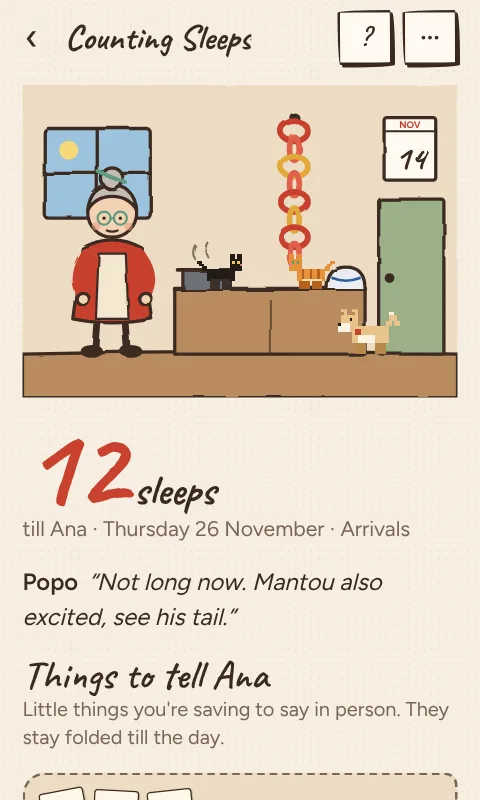
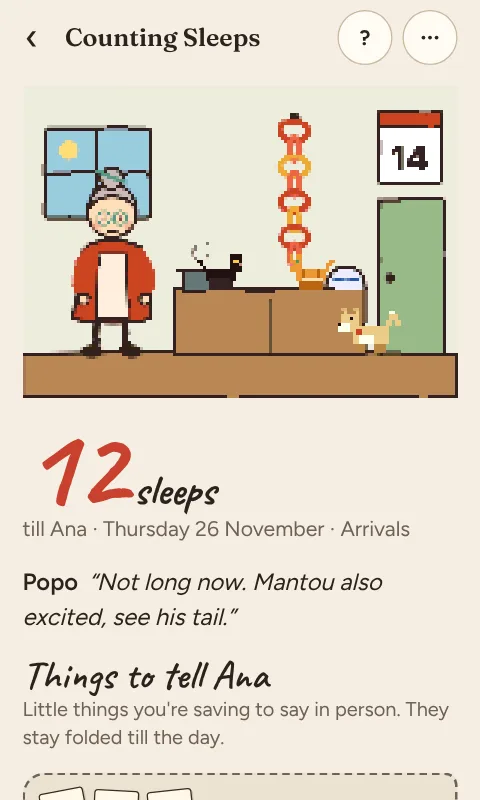
Counting Sleeps: Popo's kitchen wall in Nearby's pixel style (the shared #ahpPx filter); a bigger wall calendar that reads through it
Claude-Session: https://claude.ai/code/session_0148vArL2i4wagEXipodkMLS

Changed region(s): [[0.0312, 0.0, 0.9688, 0.5]]

diff --git a/portfolio/index.html b/portfolio/index.html
@@ -575,7 +575,7 @@ img{filter:none}
         <a class="nt" href="https://www.after-hours.work/casino/" target="_blank" rel="noopener noreferrer" style="--glow:#C8303A"><span class="nt-shot"><img src="/after-hours/casino.webp?v=2b914f6d" width="480" height="800" loading="lazy" alt=""></span><span class="nt-txt"><span class="nt-n">20</span><b><span data-i18n="acName">After Hours Casino</span></b><span class="nt-l" data-i18n="acL">A tiny casino for one table. Seeds for chips, never money.</span><span class="nt-go"><span data-i18n="acGo">Open After Hours Casino</span> ↗</span></span></a>
         <a class="nt" href="https://www.after-hours.work/still-today/" target="_blank" rel="noopener noreferrer" style="--glow:#F6B73C"><span class="nt-shot"><img src="/after-hours/still-today.webp?v=9349548d" width="480" height="800" loading="lazy" alt=""></span><span class="nt-txt"><span class="nt-n">21</span><b><span data-i18n="slName">Still Today</span></b><span class="nt-l" data-i18n="slL">Pretend today was your last day. Good news: it isn't.</span><span class="nt-go"><span data-i18n="slGo">Open Still Today</span> ↗</span></span></a>
         <a class="nt" href="https://www.after-hours.work/what-grows-between-us/" target="_blank" rel="noopener noreferrer" style="--glow:#6AB04A"><span class="nt-shot"><img src="/after-hours/what-grows-between-us.webp?v=2a8e1658" width="480" height="800" loading="lazy" alt=""></span><span class="nt-txt"><span class="nt-n">22</span><b><span data-i18n="gbName">What Grows Between Us</span></b><span class="nt-l" data-i18n="gbL">A seed with no label, grown by your friends from what you do together.</span><span class="nt-go"><span data-i18n="gbGo">Open What Grows Between Us</span> ↗</span></span></a>
-        <a class="nt" href="https://www.after-hours.work/counting-sleeps/" target="_blank" rel="noopener noreferrer" style="--glow:#C8412F"><span class="nt-shot"><img src="/after-hours/counting-sleeps.webp?v=80a3e958" width="480" height="800" loading="lazy" alt=""></span><span class="nt-txt"><span class="nt-n">23</span><b><span data-i18n="csName">Counting Sleeps</span></b><span class="nt-l" data-i18n="csL">The day you'll see them, counted on a paper chain.</span><span class="nt-go"><span data-i18n="csGo">Open Counting Sleeps</span> ↗</span></span></a>
+        <a class="nt" href="https://www.after-hours.work/counting-sleeps/" target="_blank" rel="noopener noreferrer" style="--glow:#C8412F"><span class="nt-shot"><img src="/after-hours/counting-sleeps.webp?v=5fe055ea" width="480" height="800" loading="lazy" alt=""></span><span class="nt-txt"><span class="nt-n">23</span><b><span data-i18n="csName">Counting Sleeps</span></b><span class="nt-l" data-i18n="csL">The day you'll see them, counted on a paper chain.</span><span class="nt-go"><span data-i18n="csGo">Open Counting Sleeps</span> ↗</span></span></a>
         <a class="nt" href="https://www.after-hours.work/nearby/" target="_blank" rel="noopener noreferrer" style="--glow:#8E7FE6"><span class="nt-shot"><img src="/after-hours/nearby.webp?v=369e0268" width="480" height="800" loading="lazy" alt=""></span><span class="nt-txt"><span class="nt-n">24</span><b>Nearby</b><span class="nt-l" data-i18n="nbL">A little world that sends you back to yours.</span><span class="nt-go"><span data-i18n="nbGo">Walk in</span> ↗</span></span></a>
         <a class="nt" href="https://www.after-hours.work/station/" target="_blank" rel="noopener noreferrer" style="--glow:#6F93D8"><span class="nt-shot"><img src="/after-hours/station.webp?v=774e227c" width="480" height="800" loading="lazy" alt=""></span><span class="nt-txt"><span class="nt-n">25</span><b><span data-i18n="stName">Nearby Station</span></b><span class="nt-l" data-i18n="stL">A window seat on a slow train.</span><span class="nt-go"><span data-i18n="stGo">Board</span> ↗</span></span></a>
         <a class="nt" href="https://www.after-hours.work/handoff/" target="_blank" rel="noopener noreferrer" style="--glow:#E9825E"><span class="nt-shot"><img src="/after-hours/handoff.webp?v=d103c7ed" width="480" height="800" loading="lazy" alt=""></span><span class="nt-txt"><span class="nt-n">26</span><b>Handoff</b><span class="nt-l" data-i18n="hoL">For two people in different cities.</span><span class="nt-go"><span data-i18n="hoGo">Open Handoff</span> ↗</span></span></a>
